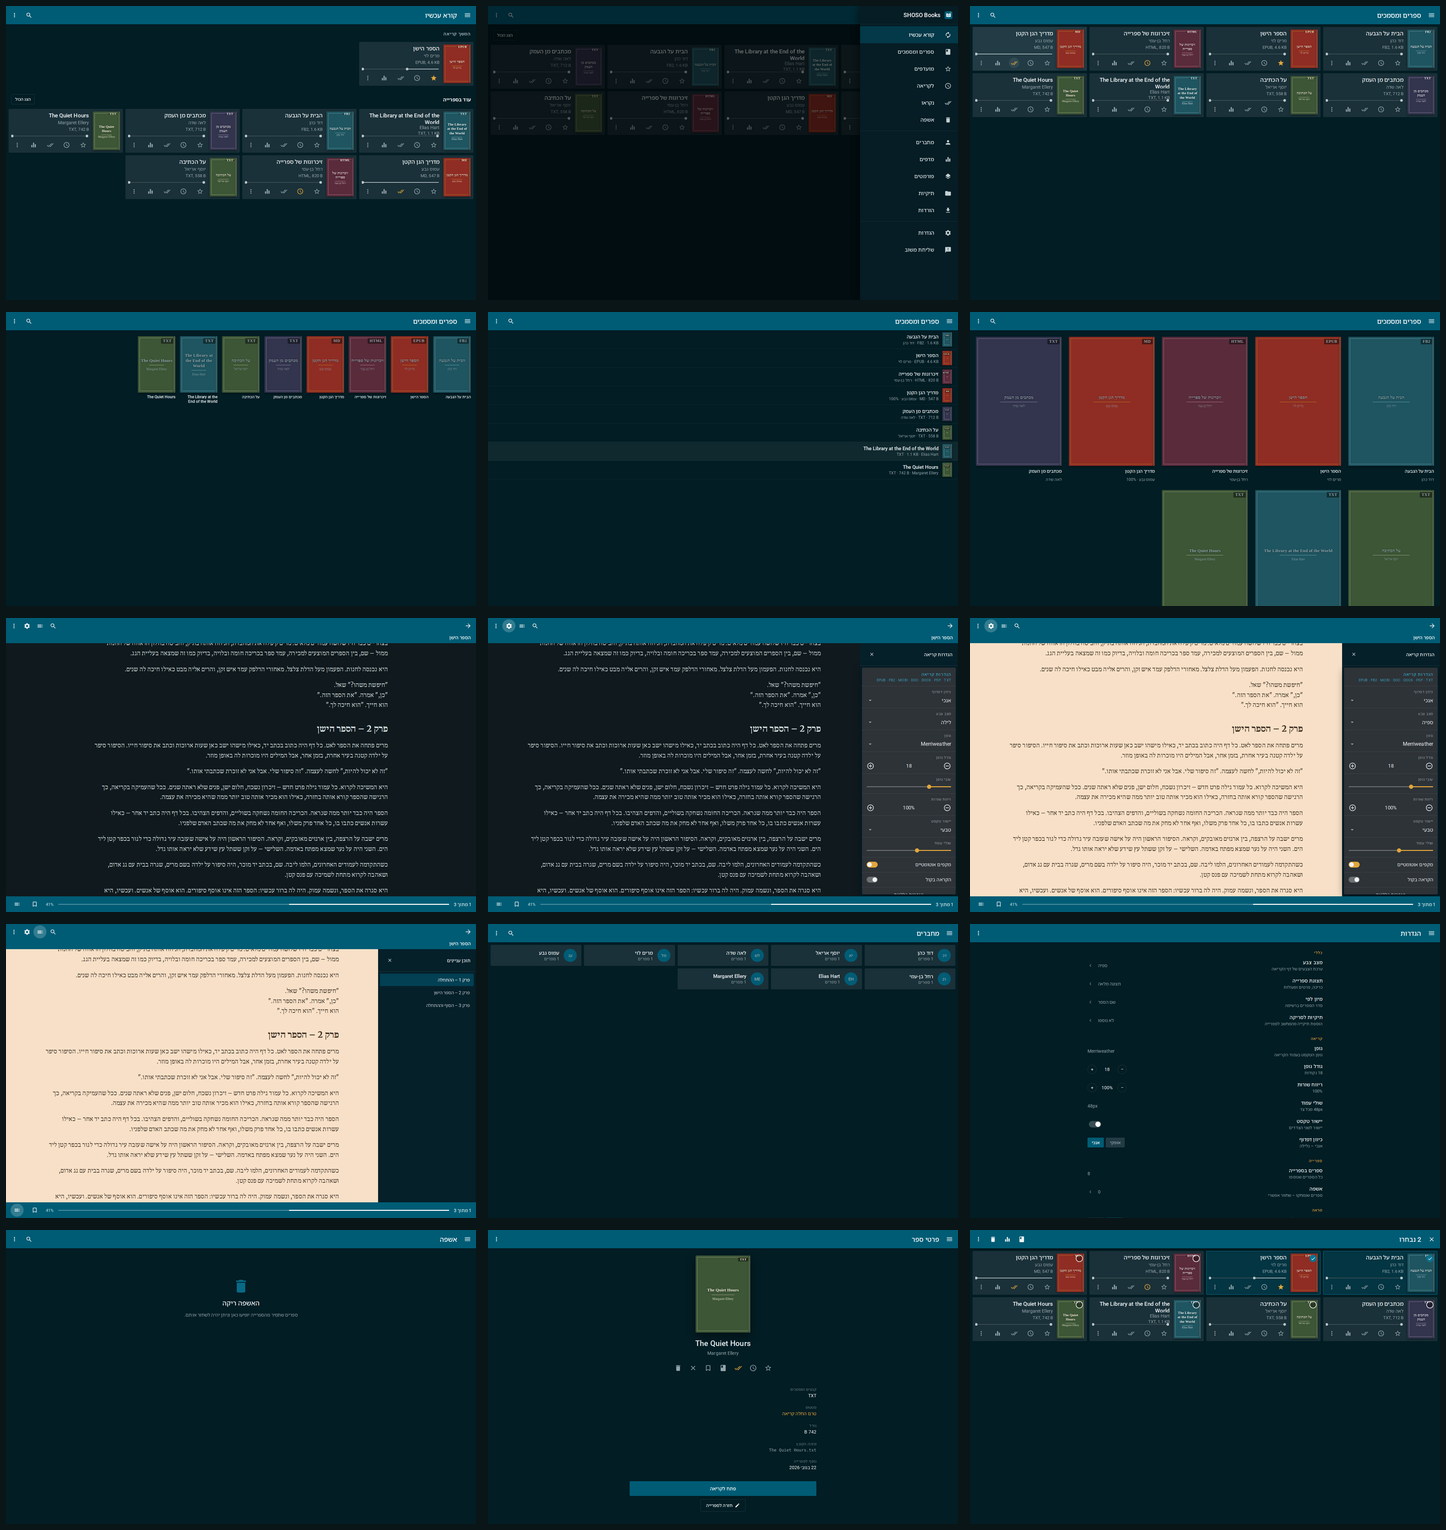
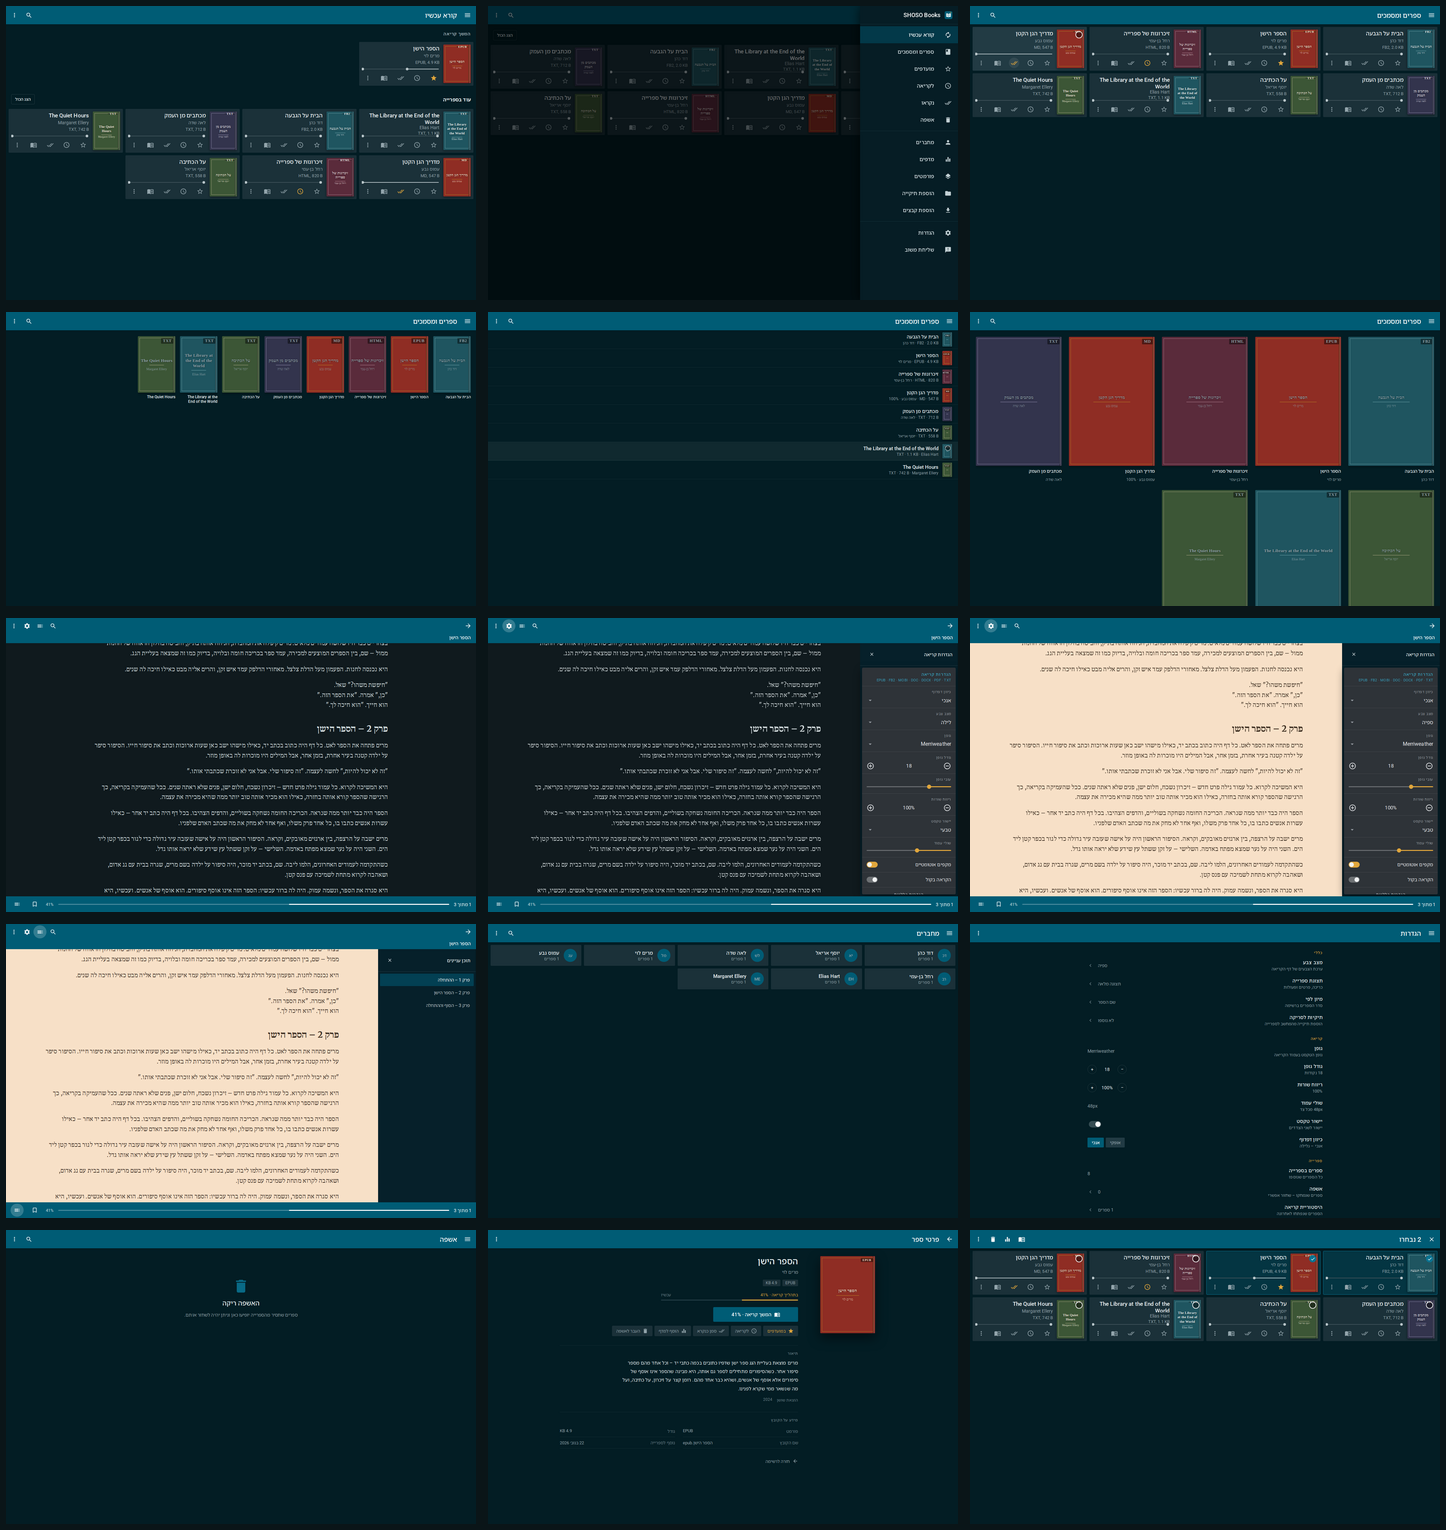
docs: the description step, the new selection model and 38 tests; grid refreshed

Changed region(s): [[0.4357, 0.7987, 0.6224, 0.983]]

diff --git a/README.md b/README.md
@@ -59,6 +59,15 @@ npm run dist          # מייצר גם מתקין NSIS וגם Portable
 
 ## מה יש בפנים
 
+### מהמדף אל הספר (כמו ReadEra)
+- **נגיעה בספר פותחת את מסך התיאור** – שלב הביניים של ReadEra: כריכה, כותרת, מחבר,
+  אחוז הקריאה, פעולות עם תוויות (מועדפים / לקריאה / נקרא / הוסף למדף / אשפה) ולמטה
+  **התיאור עצמו**, שנקרא מתוך הקובץ: `dc:description` ב-EPUB, `<annotation>` ב-FB2,
+  מטא-דאטה ועמוד ראשון ב-PDF, והפסקה הפותחת ב-TXT/MD/HTML. רק "קרא את הספר" פותח את הקורא.
+- **בחירה מרובה** – סמן ✓ שמופיע על הכריכה, לחיצה ארוכה, לחיצה ימנית או ⌘/Ctrl-לחיצה;
+  פס הפעולות מציג פתח לקריאה · הוסף למדף · העבר לאשפה · בחר הכול. הספרים שנבחרו
+  מסומנים בטורקיז, ולחיצה נוספת על ספר מבטלת את הבחירה שלו.
+
 ### ספרייה וניהול
 - **סריקת תיקיות רקורסיבית** – EPUB, PDF, TXT, FB2, HTML/HTM, MD (זיהוי MOBI/DJVU).
 - קריאת **מטא-דאטה מ-EPUB (OPF)** – כותרת, מחבר, שפה, עטיפה, מספר פרקים; **FB2** – כותרת, מחבר, עטיפה; **PDF** – כותרת, מחבר, מספר עמודים; **TXT** – כותרת וספירת מילים.
@@ -99,6 +108,7 @@ src/
     platform.js   הפשטה: Electron מול דפדפן (מצב דמו)
     format.js     עזרי תצוגה, ניקוד עברי, מיון, זיהוי כיוון
     demo.js       יצירת ספרי דמו (EPUB/TXT/FB2 אמיתיים) בתוך הדפדפן
+    description.js  חילוץ התיאור (annotation) מתוך EPUB/FB2/PDF/TXT
   components/     Reader, Sidebar, TopBar, BookCard, Cover…
   views/          Home, Library, Authors, Formats, Collections, Settings…
 tests/            בדיקות Vitest + Testing Library
@@ -122,7 +132,7 @@ build/            אייקונים ל-Windows
 npm test
 ```
 
-29 בדיקות אוטומטיות (Vitest + Testing Library) מכסות: פענוח TXT/FB2/HTML/Markdown/EPUB,
+38 בדיקות אוטומטיות (Vitest + Testing Library) מכסות: פענוח TXT/FB2/HTML/Markdown/EPUB,
 זיהוי כיוון RTL/LTR, חיפוש עברי עם ניקוד, חיפוש בתוך ספר, סינון ומיון ספרייה,
 מועדפים ומדפים, התקדמות קריאה וסימניות, ניווט בכל המסכים, והפקת ספרי הדמו.
 
